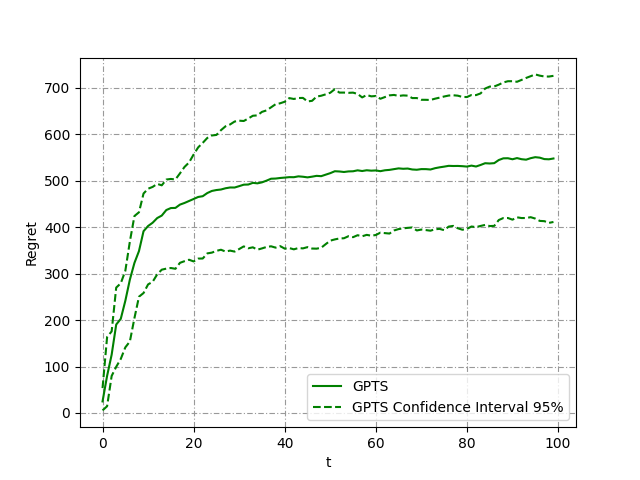
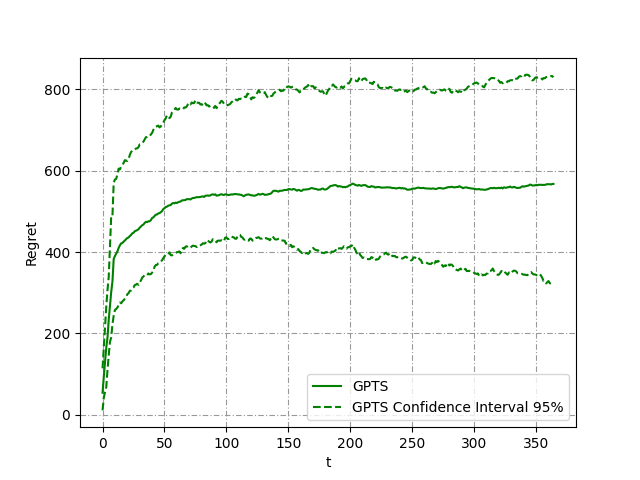
fiex 5

diff --git a/experiments/experiment_6_new.py b/experiments/experiment_6_new.py
@@ -16,7 +16,7 @@ class Experiment6new():
 
         # pricing
         self.prices = np.array(self.cm.prices) # candidates
-        self.num_people = 10000*np.array(self.cm.class_distribution)
+        self.num_people = 56000*np.array(self.cm.class_distribution)
 
         # self.p = [.12, .3, .1, .5, .07, .43, .03, .02, .34, .06] # probabilities (conv rate)
         self.p = self.cm.aggr_conv_rates()
@@ -26,41 +26,41 @@ class Experiment6new():
 
         # bidding 
         self.bids = np.array(self.cm.bids)
-        self.sigma = 10
+        #self.sigma = 10
         # self.p = np.array([.1, .03, .34, .28, .12, .19, .05, .56, .26, .35]) # cm.aggr_conv_rates()
         # perchè ridefiniamo questa???
 
         # return prob #######################################################################################
-        self.ret = self.cm.avg_ret
+        self.ret = self.cm.mean_ret([0,1,2,3])
         
         # self.means = self.cm.new_clicks(self.bids)
-        self.means = self.cm.aggregated_new_clicks_function_mean(self.bids, self.num_people)
-        self.sigmas = self.cm.aggregated_new_clicks_function_sigma(self.bids, self.num_people)
+        #self.means = self.cm.aggregated_new_clicks_function_mean(self.bids, self.num_people)
+        #self.sigmas = self.cm.aggregated_new_clicks_function_sigma(self.bids, self.num_people)
 
-        self.opt = np.max(self.means * (self.opt_pricing - self.cm.mean_cc(self.bids)))
-        indice = np.argmax(self.means * (self.opt_pricing - self.cm.mean_cc(self.bids)))
+        #self.opt = np.max(self.means * (self.opt_pricing - self.cm.mean_cc(self.bids, classes= [0,1,2,3])))
+        #indice = np.argmax(self.means * (self.opt_pricing - self.cm.mean_cc(self.bids, classes= [0,1,2,3])))
 
-        print(self.means)
+        #print(self.means)
         # print(self.means[indice])
         print(self.opt_pricing)
         # print(self.cm.mean_cc(self.bids)[indice])
-        print(self.opt)
+        #print(self.opt)
         
     
-        self.gpts_reward_per_experiment = []
-        self.p_arms = []
+        #self.gpts_reward_per_experiment = []
+        #self.p_arms = []
 
-        self.ts_reward_per_experiments = []
+        #self.ts_reward_per_experiments = []
 
-        self.T = 100 # number of days
-        self.n_experiments = 3
+        self.T = 365 # number of days
+        self.n_experiments = 10
 
     def run(self):
 
-        self.rewards_full = []
+        self.rewards_full = [] #lista delle reward dei vari esperimenti 
 
         Benv = BidEnv2(self.bids, self.num_people)
-        self.opt = Benv.compute_optimum(self.opt_pricing)[0]
+        self.opt = Benv.compute_optimum(self.opt_pricing, self.ret)[0]
 
         for e in tqdm(range(0, self.n_experiments)):
             
@@ -69,23 +69,24 @@ class Experiment6new():
             ts_learner = TS_Learner(n_arms=self.n_arms, candidates=self.prices)
             gpts_learner = GPTS2(n_arms=self.n_arms, arms=self.bids, threshold=0.2)
 
-            rewards_this = []
+            rewards_this = [] # reward dell'esperimento 
 
-            past_costs = [np.array(0.44)]*self.n_arms
+            past_costs = [np.array([])]*self.n_arms
 
-            return_times = np.ones(1)
+            return_times = np.array(1.0)
 
             for t in range(0,self.T):
                  
-                pulled_price, price_value = ts_learner.pull_arm()
-                price = self.prices[pulled_price]
+                pulled_price, price_value = ts_learner.pull_arm() #indice e conv_rate_stimata*prezzo
+                price = self.prices[pulled_price] #prezzo pullato
 
                 mean_returns = np.mean(return_times)
                 price_value *= mean_returns
                 # il price value va moltiplicato per il numero di ritorni
 
                 for bid in range(self.n_arms):  
-                    gpts_learner.exp_cost[bid] = np.quantile(past_costs[bid], 0.8)
+                    gpts_learner.exp_cost[bid] = np.mean(past_costs[bid])
+                    gpts_learner.upper_bound_cost[bid] = np.quantile(past_costs[bid], 0.8)
                 
                 pulled_bid = gpts_learner.pull_arm(price_value)
 

diff --git a/learners.py b/learners.py
@@ -347,6 +347,7 @@ class GPTS2(Learner):
         kernel = C(0.0001, (1e-6, 2e2)) * RBF(0.01, (1e-6, 1e1  ))
         self.gp = GaussianProcessRegressor(kernel = kernel, alpha = alpha**2, n_restarts_optimizer = 9)
         self.exp_cost = np.zeros(n_arms)
+        self.upper_bound_cost = np.zeros(n_arms)
 
 
     def UpdateObservation(self, idx, reward):
@@ -366,9 +367,9 @@ class GPTS2(Learner):
         self.update_model()
 
     def is_eligible(self, idx, price_value, exp_cost):
-        proba = norm(loc = self.means[idx], scale = self.sigmas[idx]).cdf(0.0)
-        if (proba > self.threshold):
-            return False
+        #proba = norm(loc = self.means[idx], scale = self.sigmas[idx]).cdf(0.0)
+        #if (proba > self.threshold):
+        #    return False
         if (price_value-exp_cost < 0):
             return False
         return True
@@ -377,10 +378,10 @@ class GPTS2(Learner):
         if (len(self.pulled_arms) < 10):
             return np.random.choice(self.n_arms)   # scelta uniforme nei primi 20 round  --> deve essere coerente con l'enviroment
         sample = np.random.normal(self.means,self.sigmas)
-        sample = sample*(price_value - self.arms*4.44/(4.4 + self.arms**0.5)) # adjust sample wrt price value
+        sample = sample*(price_value - self.exp_cost) # adjust sample wrt price value
         for i in range(len(sample)):  # controllo uno alla volta gli elementi del sample
             idx = np.argmax(sample)
-            if self.is_eligible(idx, price_value, self.exp_cost[idx]):
+            if self.is_eligible(idx, price_value, self.upper_bound_cost[idx]):
                 return idx
             else:
                 sample[idx] = -10000.0    # siamo sicuri che nella prossima iterazione non si sceglieà questo braccio 

diff --git a/configmanager.py b/configmanager.py
@@ -22,7 +22,7 @@ class ConfigManager():
         self.num_classes = len(self.classes)
         
         self.avg_cc = self.config["avg_cc"] # avg cost per click
-        self.cc = self.config['cost_per_click']
+        self.costo = self.config['cost_per_click']
 
         self.ret = self.config['return_probability']
 
@@ -40,7 +40,7 @@ class ConfigManager():
     def mean_ret(self, classes):
         aggr_ret = 0
         for c in classes:
-            ret_scaled = [self.ret[c][i]*self.class_distribution[c] for i in range(len(self.ret[c]))]
+            ret_scaled = self.ret[c]*self.class_distribution[c] 
             aggr_ret = np.add(aggr_ret, ret_scaled)
             #aggr_ret += self.config['return_probability'][c]
         return aggr_ret #/ len(classes)
@@ -82,8 +82,11 @@ class ConfigManager():
     def cc(self, bid, size = 1):
         return bid*np.random.beta(4.4,bid**0.5, size=size)
     
-    def mean_cc(self, bid):
-        return bid*(4.4/(4.4+bid**0.5))
+    def mean_cc(self, bid, classes):
+        v = 0
+        for i in classes:
+            v += bid*(self.costo[i]/(self.costo[i]+bid**0.5))*self.class_distribution[i]
+        return v
     #------------------------------
     # AGGREGATED FUNCTIONS
     #------------------------------

diff --git a/experiments/experiment_5_new.py b/experiments/experiment_5_new.py
@@ -35,8 +35,8 @@ class Experiment5new():
         self.means = self.cm.aggregated_new_clicks_function_mean(self.bids, self.num_people)
         self.sigmas = self.cm.aggregated_new_clicks_function_sigma(self.bids, self.num_people)
 
-        self.opt = np.max(self.means * (self.opt_pricing - self.cm.mean_cc(self.bids)))
-        indice = np.argmax(self.means * (self.opt_pricing - self.cm.mean_cc(self.bids)))
+        self.opt = np.max(self.means * (self.opt_pricing - self.cm.mean_cc(self.bids, classes= [0,1,2,3])))
+        indice = np.argmax(self.means * (self.opt_pricing - self.cm.mean_cc(self.bids, classes= [0,1,2,3])))
 
         
     
@@ -45,8 +45,8 @@ class Experiment5new():
 
         self.ts_reward_per_experiments = []
 
-        self.T = 100 # number of days
-        self.n_experiments = 5
+        self.T = 365 # number of days
+        self.n_experiments = 10
 
     def run(self):
         print(self.cm.new_clicks)

diff --git a/environment.py b/environment.py
@@ -166,7 +166,7 @@ class BidEnv2():
         mean = self.cm.new_clicks_function_mean(self.bids[pulled_arm], c, self.num_people[c])
 
         beta = np.sqrt(self.bids[pulled_arm])
-        alpha = self.cm.cc[c]
+        alpha = self.cm.costo[c]
         cost = self.bids[pulled_arm] * alpha /( beta + alpha )
 
         rew += mean*((lam+1)*price_value-cost)
